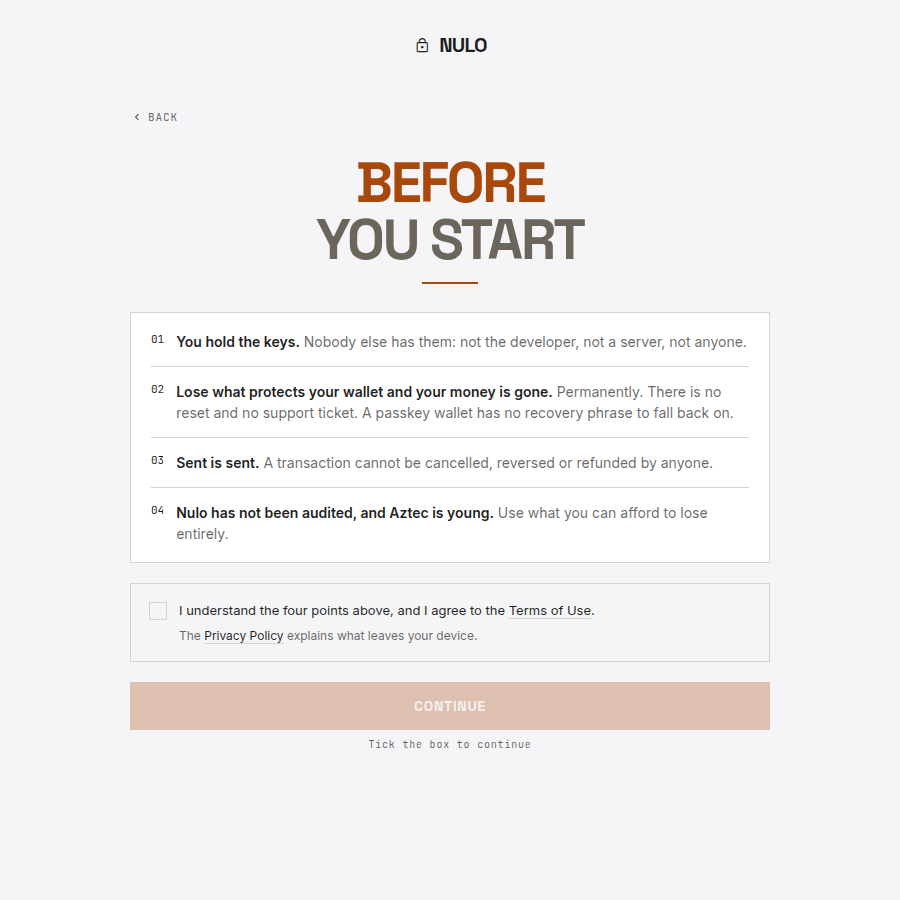
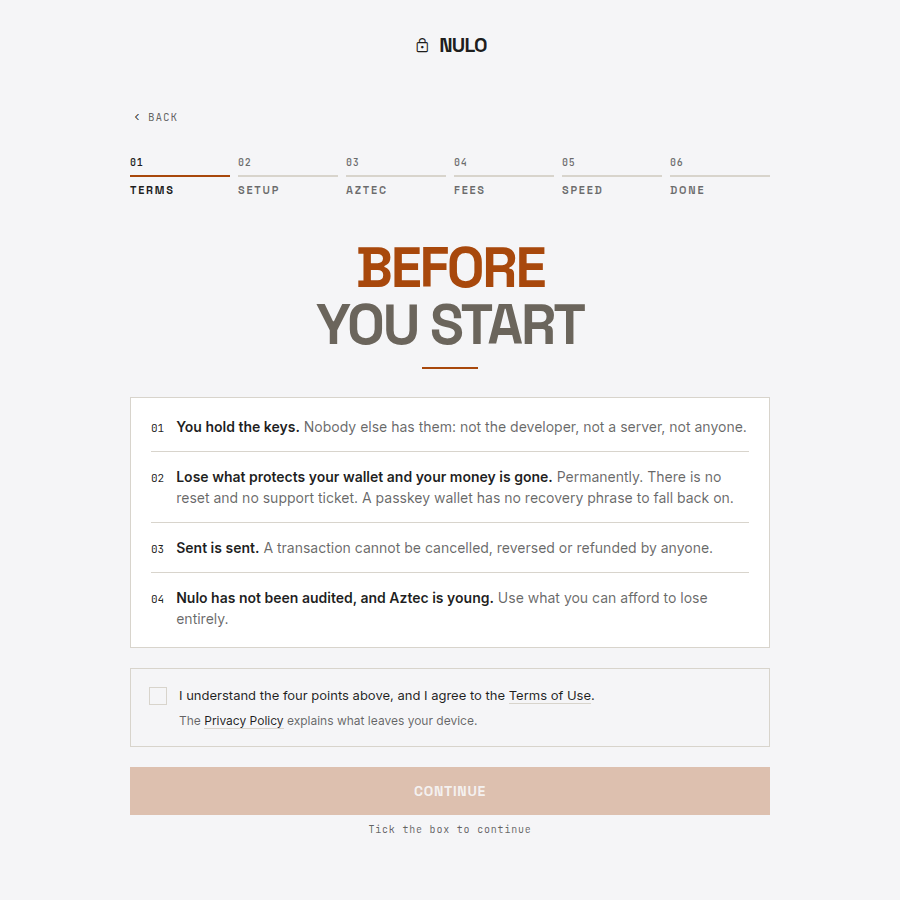
feat(onboarding): make the terms step 01 of the progress indicator
The gate showed no indicator, so Continue led somewhere the page never named. The
indicator grows from five cells to six with Terms first, and every later page moves
up one. The risk points' ordinals now share a baseline with their lead instead of
approximating it with a fixed top padding.

Both changes were asked for by the owner on the pull request; quoted in the plan.

diff --git a/apps/extension/src/onboarding/components/StepIndicator.test.ts b/apps/extension/src/onboarding/components/StepIndicator.test.ts
@@ -1,10 +1,10 @@
 /**
- * Coverage for the 5-cell onboarding step indicator. Pins each load-bearing
+ * Coverage for the 6-cell onboarding step indicator. Pins each load-bearing
  * fact about the visual + a11y contract so a future renumber doesn't drift
  * silently:
- *   - 5 cells in fixed order (Setup → Aztec → Fees → Speed → Done)
+ *   - 6 cells in fixed order (Terms → Setup → Aztec → Fees → Speed → Done)
  *   - `:current` prop selects which cell gets `aria-current="step"`
- *   - past / active / future state across the full range (1..5)
+ *   - past / active / future state across the full range (1..6)
  *   - the nav element carries the document a11y label
  */
 
@@ -13,29 +13,14 @@ import { describe, expect, test } from "vitest"
 
 import StepIndicator from "./StepIndicator.vue"
 
-describe("StepIndicator — 5-cell onboarding progress", () => {
-	test("renders 5 cells with labels Setup / Aztec / Fees / Speed / Done in order", () => {
+describe("StepIndicator — 6-cell onboarding progress", () => {
+	test("renders 6 cells, Terms first, so accepting reads as step one of the sequence", () => {
 		const wrapper = mount(StepIndicator, { props: { current: 1 } })
-		const text = wrapper.text()
-		expect(text).toContain("Setup")
-		expect(text).toContain("Aztec")
-		expect(text).toContain("Fees")
-		expect(text).toContain("Speed")
-		expect(text).toContain("Done")
-		expect(wrapper.findAll("nav > div")).toHaveLength(5)
+		const cells = wrapper.findAll("nav > div").map((cell) => cell.text())
+		expect(cells).toEqual(["01Terms", "02Setup", "03Aztec", "04Fees", "05Speed", "06Done"])
 	})
 
-	test("renders the numeric prefix 01..05 in order", () => {
-		const wrapper = mount(StepIndicator, { props: { current: 1 } })
-		const text = wrapper.text()
-		expect(text).toContain("01")
-		expect(text).toContain("02")
-		expect(text).toContain("03")
-		expect(text).toContain("04")
-		expect(text).toContain("05")
-	})
-
-	test("current=1 (Setup) — only the first cell is aria-current", () => {
+	test("current=1 (Terms) — only the first cell is aria-current", () => {
 		const wrapper = mount(StepIndicator, { props: { current: 1 } })
 		const cells = wrapper.findAll("nav > div")
 		expect(cells[0].attributes("aria-current")).toBe("step")
@@ -44,20 +29,24 @@ describe("StepIndicator — 5-cell onboarding progress", () => {
 		}
 	})
 
-	test("current=3 (Fees — the new cell) — only the third cell is aria-current", () => {
-		const wrapper = mount(StepIndicator, { props: { current: 3 } })
+	test("current=4 (Fees) — only the fourth cell is aria-current", () => {
+		const wrapper = mount(StepIndicator, { props: { current: 4 } })
 		const cells = wrapper.findAll("nav > div")
-		expect(cells[2].attributes("aria-current")).toBe("step")
-		expect(cells[0].attributes("aria-current")).toBeUndefined()
-		expect(cells[3].attributes("aria-current")).toBeUndefined()
-		expect(cells[4].attributes("aria-current")).toBeUndefined()
+		expect(cells.map((cell) => cell.attributes("aria-current"))).toEqual([
+			undefined,
+			undefined,
+			undefined,
+			"step",
+			undefined,
+			undefined,
+		])
 	})
 
-	test("current=5 (Done) — only the last cell is aria-current", () => {
-		const wrapper = mount(StepIndicator, { props: { current: 5 } })
+	test("current=6 (Done) — only the last cell is aria-current", () => {
+		const wrapper = mount(StepIndicator, { props: { current: 6 } })
 		const cells = wrapper.findAll("nav > div")
-		expect(cells[4].attributes("aria-current")).toBe("step")
-		expect(cells[3].attributes("aria-current")).toBeUndefined()
+		expect(cells[5].attributes("aria-current")).toBe("step")
+		expect(cells[4].attributes("aria-current")).toBeUndefined()
 	})
 
 	test("nav element carries the a11y label", () => {

diff --git a/apps/extension/src/onboarding/components/StepIndicator.vue b/apps/extension/src/onboarding/components/StepIndicator.vue
@@ -1,9 +1,9 @@
 <script setup lang="ts">
 /**
- * Onboarding step indicator. Five-step brutalist row:
- *   [01]     [02]     [03]     [04]     [05]
- *   ━━━━━    ━━━━━    ━━━━━    ─────    ─────
- *   SETUP    AZTEC    FEES     SPEED    DONE
+ * Onboarding step indicator. Six-step brutalist row:
+ *   [01]     [02]     [03]     [04]     [05]     [06]
+ *   ━━━━━    ━━━━━    ━━━━━    ━━━━━    ─────    ─────
+ *   TERMS    SETUP    AZTEC    FEES     SPEED    DONE
  *
  * The 2px bar underneath each cell carries the state:
  *   active:  --nulo-accent (warm off-white)
@@ -11,16 +11,18 @@
  *   future:  --nulo-border (dim, almost-bg)
  *
  * Welcome page intentionally has no indicator — it owns the canvas with
- * its own hero. Indicator appears starting from /create.
+ * its own hero. Indicator appears starting from /terms, so accepting the
+ * Terms reads as the first step of a visible sequence, not a gate in front of one.
  */
-defineProps<{ current: 1 | 2 | 3 | 4 | 5 }>()
+defineProps<{ current: 1 | 2 | 3 | 4 | 5 | 6 }>()
 
 const steps: Array<{ num: string; label: string }> = [
-	{ num: "01", label: "Setup" },
-	{ num: "02", label: "Aztec" },
-	{ num: "03", label: "Fees" },
-	{ num: "04", label: "Speed" },
-	{ num: "05", label: "Done" },
+	{ num: "01", label: "Terms" },
+	{ num: "02", label: "Setup" },
+	{ num: "03", label: "Aztec" },
+	{ num: "04", label: "Fees" },
+	{ num: "05", label: "Speed" },
+	{ num: "06", label: "Done" },
 ]
 </script>
 
@@ -47,7 +49,7 @@ const steps: Array<{ num: string; label: string }> = [
 <style module>
 .row {
 	display: grid;
-	grid-template-columns: repeat(5, 1fr);
+	grid-template-columns: repeat(6, 1fr);
 	gap: 8px;
 	width: 100%;
 	margin: 0 0 16px;

diff --git a/apps/extension/src/components/composite/LegalConsent.vue b/apps/extension/src/components/composite/LegalConsent.vue
@@ -39,7 +39,7 @@ const accept = () => {
 <template>
 	<Flex direction="column" gap="20" wide :class="$style.consent" data-testid="legal-consent">
 		<Flex v-if="points?.length" direction="column" :class="$style.card" data-testid="legal-points">
-			<Flex v-for="(point, index) in points" :key="point.lead" gap="12" align="start" :class="$style.point" data-testid="legal-point">
+			<Flex v-for="(point, index) in points" :key="point.lead" gap="12" :class="$style.point" data-testid="legal-point">
 				<Text size="11" color="primary" mono :class="$style.ordinal">{{ String(index + 1).padStart(2, "0") }}</Text>
 				<Text size="14" color="secondary" height="150">
 					<Text size="14" color="primary" weight="600">{{ point.lead }}</Text>
@@ -109,6 +109,8 @@ const accept = () => {
 
 .point {
 	padding: 14px 0;
+	/* The ordinal and the lead are different faces at different sizes; only their baselines agree. */
+	align-items: baseline;
 }
 
 .point + .point {
@@ -117,7 +119,6 @@ const accept = () => {
 
 .ordinal {
 	flex-shrink: 0;
-	padding-top: 3px;
 }
 
 .agree {

diff --git a/apps/extension/src/onboarding/pages/import.vue b/apps/extension/src/onboarding/pages/import.vue
@@ -129,7 +129,7 @@ onBeforeUnmount(() => {
 <template>
 	<OnboardingPage :gap="24" :data-restore-stage="restoreStage">
 		<OnboardingBackLink testid="onboarding-import-back" />
-		<StepIndicator :current="1" />
+		<StepIndicator :current="2" />
 		<header :class="$style.hero">
 			<BrutalistTitle main="Import" sub="Profile" />
 			<div :class="$style.hero_bar" />

diff --git a/apps/extension/src/onboarding/pages/terms.vue b/apps/extension/src/onboarding/pages/terms.vue
@@ -41,6 +41,7 @@ const handleAccept = async () => {
 <template>
 	<OnboardingPage align="center" :gap="28">
 		<OnboardingBackLink testid="legal-terms-back" />
+		<StepIndicator :current="1" />
 
 		<Flex direction="column" align="center" gap="16" data-testid="legal-terms-page">
 			<BrutalistTitle main="Before" sub="you start" align="center" size="hero" />

diff --git a/apps/extension/src/onboarding/pages/done.vue b/apps/extension/src/onboarding/pages/done.vue
@@ -69,7 +69,7 @@ async function openWallet() {
 
 <template>
 	<OnboardingPage align="center" :gap="40">
-		<StepIndicator :current="5" />
+		<StepIndicator :current="6" />
 		<Flex direction="column" align="center" gap="16" :class="$style.hero">
 			<BrutalistTitle main="You're" sub="In" align="center" />
 			<div :class="$style.hero_bar" />

diff --git a/apps/extension/src/onboarding/pages/create.vue b/apps/extension/src/onboarding/pages/create.vue
@@ -105,7 +105,7 @@ onBeforeUnmount(() => {
 <template>
 	<OnboardingPage>
 		<OnboardingBackLink testid="onboarding-create-back" />
-		<StepIndicator :current="1" />
+		<StepIndicator :current="2" />
 		<header :class="$style.hero">
 			<BrutalistTitle main="Create" sub="Profile" />
 			<div :class="$style.hero_bar" />

diff --git a/apps/extension/src/onboarding/pages/presto.vue b/apps/extension/src/onboarding/pages/presto.vue
@@ -68,7 +68,7 @@ onBeforeUnmount(() => {
 
 <template>
 	<OnboardingPage>
-		<StepIndicator :current="4" />
+		<StepIndicator :current="5" />
 		<Flex direction="column" gap="16" :class="$style.hero">
 			<BrutalistTitle main="Speed up" sub="Proving" />
 			<div :class="$style.hero_bar" />

diff --git a/apps/extension/src/onboarding/pages/fees.vue b/apps/extension/src/onboarding/pages/fees.vue
@@ -37,7 +37,7 @@ function goSkip() {
 
 <template>
 	<OnboardingExplainer
-		:step="3"
+		:step="4"
 		titleMain="Fees on"
 		titleSub="Aztec"
 		lede="Three things to know about paying for transactions on Aztec."

diff --git a/apps/extension/src/onboarding/pages/learn.vue b/apps/extension/src/onboarding/pages/learn.vue
@@ -36,7 +36,7 @@ function goSkip() {
 
 <template>
 	<OnboardingExplainer
-		:step="2"
+		:step="3"
 		titleMain="Meet"
 		titleSub="Aztec"
 		lede="Three things to know before your first transaction."

diff --git a/implementations-plan/legal-terms/plan.md b/implementations-plan/legal-terms/plan.md
@@ -340,6 +340,23 @@ After reviewing the rebuilt screens page, the owner wrote:
     surface is built from `@nulo/design` primitives and tokens and introduces no `border-radius` of
     its own.
 
+### Review of the open PR (2026-09-18)
+
+On the Arc B pull request the owner asked for two changes to U1, which are this surface's sign-off
+for them:
+
+> "I think it might make sense to make "Before you start" part of the "steps" on the onboarding? So
+> they can see "what comes next"? Because right now it feels like a full blackbox with nothing to
+> "go to" if I press "continue". […] it doesn't seem very horizontally aligned the "01" with "you
+> hold the keys" […] Basically, I think it's just adding it as 01 "disclaimer" (or a better UX
+> copy). "Acceptance" or something."
+
+- **The Terms gate is step 01 of the onboarding indicator**, which grows from five cells to six:
+  Terms, Setup, Aztec, Fees, Speed, Done. The label is "Terms": it is the word the page, the popup
+  sheet and Settings already use, and it fits the row's one-short-word cells.
+- **The ordinals share a baseline with their lead** (`align-items: baseline`), replacing a fixed
+  top padding that only approximated it.
+
 ## Assumptions and open items
 
 - Every dispatcher method is refused while declined, reads included (follows from decision 3).
